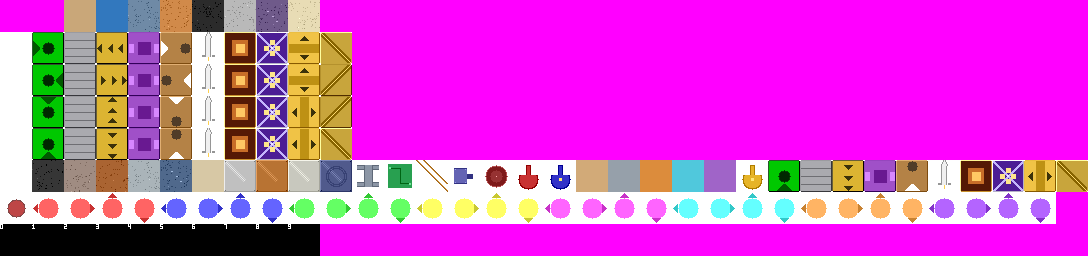
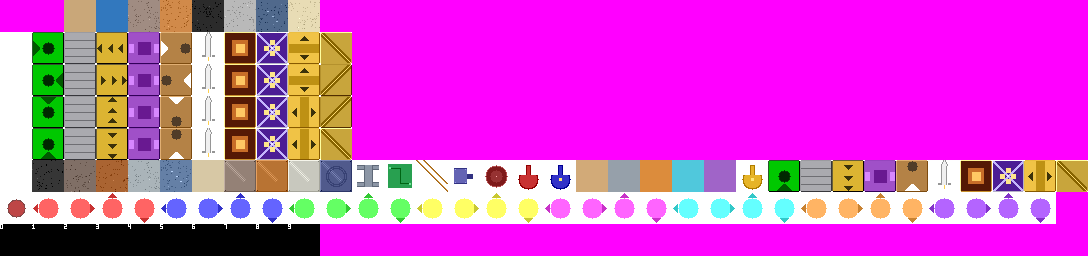
match colors of blocks, ores and plates

diff --git a/factoriax/playground/ui/icons.py b/factoriax/playground/ui/icons.py
@@ -20,11 +20,11 @@ ASSETS_PATH = Path(__file__).parent.parent / "assets"
 
 ITEM_COLORS: dict[int, tuple[int, int, int]] = {
     ItemType.COAL: (54, 54, 54),
-    ItemType.IRON_ORE: (160, 140, 130),
+    ItemType.IRON_ORE: (128, 111, 102),
     ItemType.COPPER_ORE: (170, 100, 50),
     ItemType.TIN_ORE: (170, 180, 185),
-    ItemType.SILICON: (80, 105, 140),
-    ItemType.IRON_PLATE: (192, 192, 192),
+    ItemType.SILICON: (101, 128, 166),
+    ItemType.IRON_PLATE: (148, 129, 118),
     ItemType.COPPER_PLATE: (184, 115, 51),
     ItemType.TIN_PLATE: (200, 200, 190),
     ItemType.WAFER: (80, 90, 140),
@@ -66,11 +66,11 @@ ITEM_COLORS: dict[int, tuple[int, int, int]] = {
 BLOCK_COLORS: dict[int, tuple[int, int, int]] = {
     int(BlockType.DIRT): (201, 167, 121),
     int(BlockType.WATER): (50, 120, 190),
-    int(BlockType.IRON): (111, 138, 166),
+    int(BlockType.IRON): (160, 140, 130),
     int(BlockType.COPPER): (209, 138, 74),
     int(BlockType.COAL): (43, 43, 43),
     int(BlockType.TIN): (185, 185, 185),
-    int(BlockType.SILICON): (111, 90, 138),
+    int(BlockType.SILICON): (80, 105, 140),
     int(BlockType.LIMESTONE): (232, 220, 181),
 }
 
